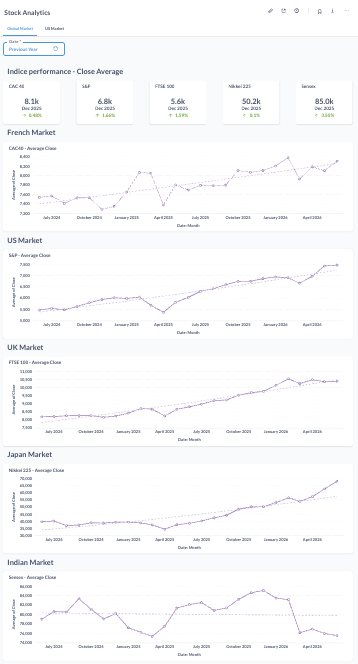
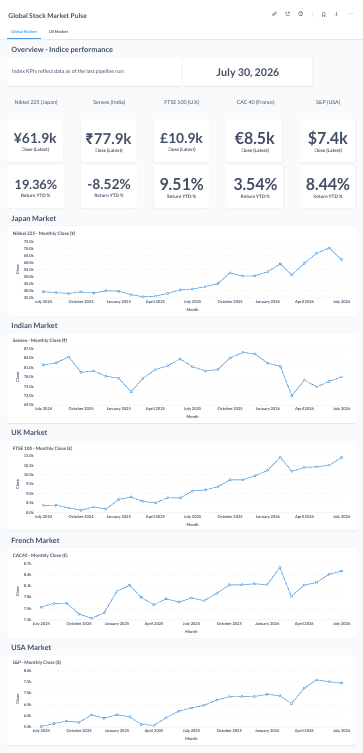
docs(readme): update Global Markets screenshot and add data analysis caption

diff --git a/README.md b/README.md
@@ -99,10 +99,10 @@ flowchart LR
 
 ## Dashboard
 
-Interactive **Stock Analytics** dashboard built with Metabase, connected directly to the Gold layer. Two tabs — **Global Markets** (index KPIs, 1D/YTD/2Y returns) and **US Markets** (sector top movers, whale signals, top volatile stocks).
+Interactive **Stock Analytics** dashboard built with Metabase, connected directly to the Gold layer. Two tabs — **Global Markets** (index KPIs, 1D/YTD/2Y returns) and **US Markets** (sector top movers, whale signals, top volatile stocks). Returns are computed close-to-close (point-in-time), not as an average of daily closes over the period — averaging would systematically understate or overstate the actual move depending on trend direction.
 
 ![Global Markets tab](docs/screenshots/dashboard_global_markets.png)
-*Global Markets — set to **Previous Year**, the right window for a macro overview. Four of the five indices are up over the period; CAC 40 is the outlier, down 6.4%, while Nikkei 225 leads with +8.2%.*
+*Global Markets — ordered "follow the sun" (Asia → Europe → US, the sequence in which each market opens). KPIs show the latest close and YTD return, both computed close-to-close via `index_performance`; the trend charts below plot the last close of each month via `index_monthly_close`, not a monthly average. As of July 30, 2026: Nikkei 225 leads the year (+19.36%), followed by FTSE 100 (+9.51%) and S&P 500 (+8.44%) — both near multi-year highs. CAC 40 is up modestly (+3.54%), having plateaued after two years of steady gains. Sensex is the outlier, down 8.52% YTD after a sharp pullback from its late-2025 peak, visible as the drop toward the end of its trend line.*
 
 *US Markets screenshot — coming soon (finalizing the date filter/comparison setup on this tab first).*
 
